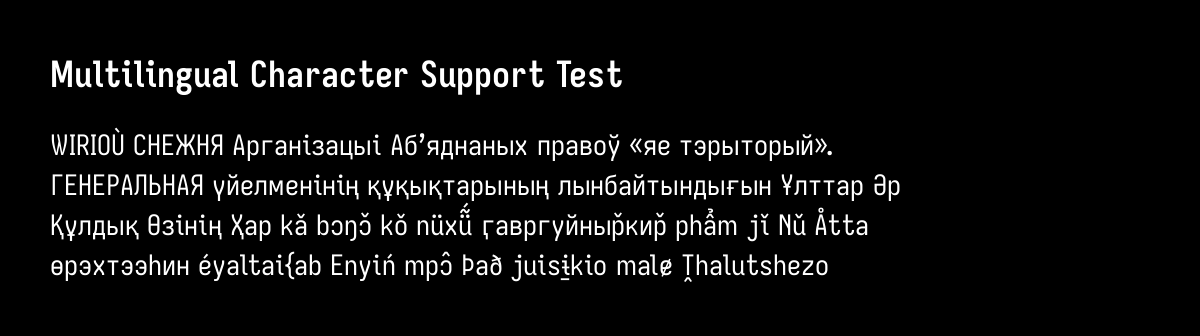
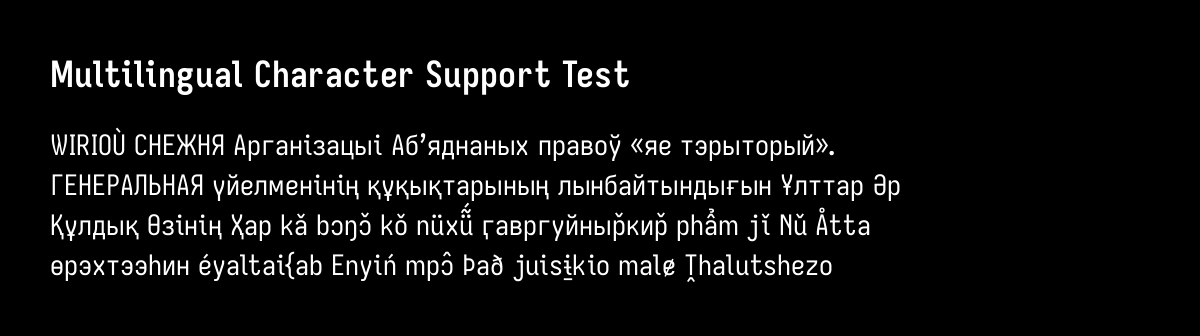
Restore positive kerns alongside negative for full auto-kerning range
Re-enable both tightening and loosening kerns (negative_only=False)
to let HalfKern adjust spacing in both directions where needed.

diff --git a/scripts/autokern.py b/scripts/autokern.py
@@ -111,7 +111,7 @@ class AutoKernConfig:
     threshold_units: int = 5  # drop kerns smaller than this (font units)
     quantize_step: int = 2  # round kerns to multiples of this (font units)
     class_tolerance: int = 10  # max deviation for class merging (font units)
-    negative_only: bool = True  # only emit tightening (negative) kerns
+    negative_only: bool = False  # emit both tightening and loosening kerns
 
 
 # ---------------------------------------------------------------------------
